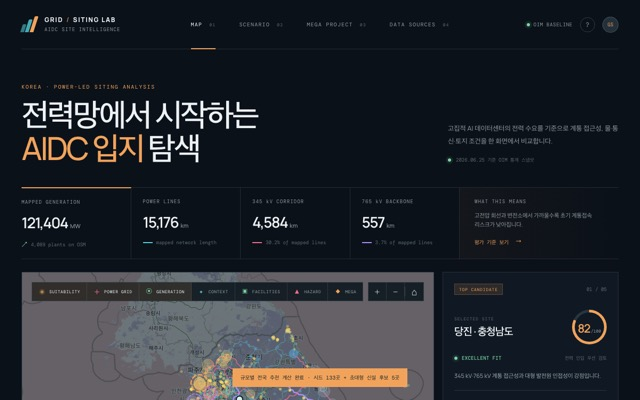
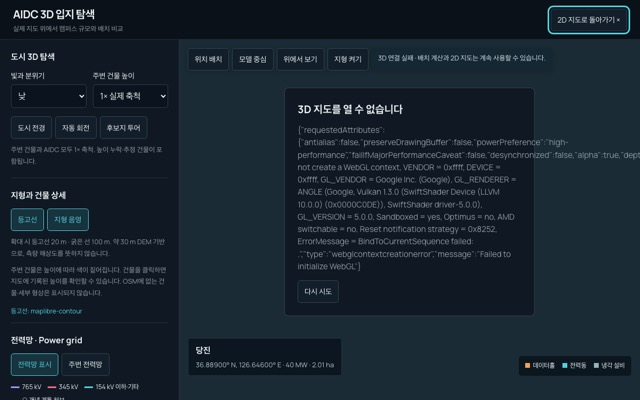
chore: 사례 데이터 갱신 (2026-09-09 야간) — 국가AI전략위 1년 타임라인 등재, AIDC 입지 시뮬레이터 3D 뷰 보강, 평가 378 추가 (총 377건)
Claude-Session: https://claude.ai/code/session_01UzE1ZB24modLJDCrQLPeF8

diff --git a/site/case/3615205d53567c32.html b/site/case/3615205d53567c32.html
@@ -1,0 +1,70 @@
+<!DOCTYPE html>
+<html lang="ko">
+<head>
+  <meta charset="utf-8">
+  <meta name="viewport" content="width=device-width, initial-scale=1">
+  <title>국가AI전략위원회 1년 타임라인 — 분과별 정책 기록을 근거와 함께 따라가는 아카이브 — 모두의 공공AX</title>
+  <meta name="description" content="대통령 직속 국가인공지능전략위원회의 첫 1년을 10개 분과별로 재구성한 정책 아카이브가 공개됐다. 53개 사건을 시간순으로 잇고 분과를 고르면 해당 논의와 현장 활동만 따라갈 수 있으며, 각 사건마다 근거 자료를 자동으로 표시해 출처를 확인하게 했다. 인물 설명은 실제">
+  <link rel="canonical" href="https://hollobit.github.io/PAX/case/3615205d53567c32.html">
+  <meta property="og:type" content="article">
+  <meta property="og:title" content="국가AI전략위원회 1년 타임라인 — 분과별 정책 기록을 근거와 함께 따라가는 아카이브">
+  <meta property="og:description" content="대통령 직속 국가인공지능전략위원회의 첫 1년을 10개 분과별로 재구성한 정책 아카이브가 공개됐다. 53개 사건을 시간순으로 잇고 분과를 고르면 해당 논의와 현장 활동만 따라갈 수 있으며, 각 사건마다 근거 자료를 자동으로 표시해 출처를 확인하게 했다. 인물 설명은 실제">
+  <meta property="og:url" content="https://hollobit.github.io/PAX/case/3615205d53567c32.html">
+  <meta property="og:site_name" content="모두의 공공AX 사례 아카이브">
+  <link rel="stylesheet" href="../style.css">
+</head>
+<body>
+  <header class="site-header">
+    <p class="eyebrow">PUBLIC SECTOR AX CASE · 사례 3615205d53567c32</p>
+    <h1>국가AI전략위원회 1년 타임라인 — 분과별 정책 기록을 근거와 함께 따라가는 아카이브</h1>
+<nav class="site-nav" aria-label="주요 메뉴">
+      <a href="../">사례 아카이브</a>
+      <a href="../dashboard.html">AX 평가</a>
+      <a href="../champions.html">챔피언</a>
+      <a href="../ax-maturity-infographic.html">AX 성숙도 개념</a>
+      <a href="../observatory.html">관측소</a>
+      <a href="../gap-map.html">격차 지도</a>
+      <a href="../mcp-review.html">MCP 검증</a>
+      <a href="../playbook.html">전이 플레이북</a>
+      <a href="../guidelines.html">안내서·가이드라인</a>
+      <a href="../changelog.html">변경 기록</a>
+    </nav>
+    <nav class="site-nav site-nav--external" aria-label="관련 사이트">
+      <a href="https://hollobit.github.io/GAPI2/ecosystem.html" target="_blank" rel="noopener">MCP·AI 도구 ↗</a>
+      <a href="https://ax360.kr/national-ax-project/card" target="_blank" rel="noopener">AX 사업 찾기 ↗</a>
+      <a href="https://ax360.kr/national-ai-resource/model" target="_blank" rel="noopener">AX 자원 찾기 ↗</a>
+      <a href="https://ax360.kr/private-ai-company/heatmap" target="_blank" rel="noopener">AI 기업 찾기 ↗</a>
+      <a href="https://axboard.aigov.go.kr/" target="_blank" rel="noopener">AI 정부실험실 ↗</a>
+    </nav>
+  </header>
+  <main class="case-page">
+    <section class="obs-section">
+      <p class="case-page__meta">공공기관 연구자(개인 개발) · 공직 개인 · 기획·정책 · 2026-09-09 게시</p>
+      <p class="case-page__summary">대통령 직속 국가인공지능전략위원회의 첫 1년을 10개 분과별로 재구성한 정책 아카이브가 공개됐다. 53개 사건을 시간순으로 잇고 분과를 고르면 해당 논의와 현장 활동만 따라갈 수 있으며, 각 사건마다 근거 자료를 자동으로 표시해 출처를 확인하게 했다. 인물 설명은 실제 발언이 아니라 활동 요약임을 명시해 재구성물의 한계를 드러낸 점이 특징이다.</p>
+      <p class="case-page__links"><a href="https://deep-diver.github.io/korea-ai-in-motion/" target="_blank" rel="noopener">공유 링크</a> · <a href="../?case=3615205d53567c32">아카이브에서 보기</a></p>
+    </section>
+    <section class="obs-section">
+      <h2 class="obs-heading">4축 평가</h2>
+      <div class="table-wrap"><table class="obs-table"><tr><th scope="row">AX 단계</th><td>AI-Ready</td></tr><tr><th scope="row">업무 범위</th><td>S1 Single tool</td></tr><tr><th scope="row">업무 완결성</th><td>C1 결과 제공</td></tr><tr><th scope="row">권한(P축)</th><td>P1 산출물 생성(잠정)</td></tr><tr><th scope="row">위험도</th><td>R0 최소</td></tr><tr><th scope="row">인간 통제</th><td>해당 없음</td></tr><tr><th scope="row">증거 등급</th><td>E2 실물 확인</td></tr><tr><th scope="row">신뢰도</th><td>보통</td></tr></table></div>
+      <p class="obs-note">배포된 웹 아카이브를 직접 열어 10개 분과 필터·53개 사건 타임라인·근거 자료 연결·재생 컨트롤을 확인했다(E2). 정책 기록을 읽기 좋게 재구성한 단일 산출물이라 S1·C1로 둔다. 인물 설명을 &#x27;실제 대사 아님&#x27;으로 명시해 재구성물의 한계를 표기한 점은 근거 신뢰도 측면에서 긍정 요소다.</p>
+    </section>
+    <section class="obs-section">
+      <h2 class="obs-heading">실무 도입 카드</h2>
+      <div class="obs-cards">
+        <div class="obs-card"><p class="obs-card__label">필요한 것</p><p class="obs-card__note">실행환경: 브라우저만 · 망 요건: 인터넷 필수 · 라이선스: 명시 없음</p></div>
+        <div class="obs-card"><p class="obs-card__label">첫 3단계</p><p class="obs-card__note">① 링크 접속 → ② 내 업무 데이터로 시험 → ③ 동료와 결과 검증</p></div>
+        <div class="obs-card"><p class="obs-card__label">주의사항</p><p class="obs-card__note">실사용 피드백이 미확인입니다 — 도입 전 소규모 검증을 권합니다 · 성과 수치는 출처가 확인된 것만 신뢰하세요</p></div>
+      </div>
+      <p class="obs-note">전이 절차(보안검토→품의→배포)는 <a href="../playbook.html">전이 플레이북</a>을 참고하세요.</p>
+    </section>
+    <section class="obs-section">
+      <h2 class="obs-heading">비슷한 업무의 사례</h2>
+      <ul class="case-page__related"><li><a href="5451653f4cddb6f2.html">제도100 — 국가 제도 505개 업무구조도 웹서비스</a></li><li><a href="d487843b67c6063e.html">교육행정 업무 워크플로 맵 제작기 공유</a></li><li><a href="856b4951cb5274d1.html">K-지방직 정책서랍 — 전국 지자체 예산서·주요업무계획 검색 서비스</a></li></ul>
+    </section>
+    <footer class="obs-note">
+      <p>출처: 모두의 공공AX 사례 아카이브 · 자기선택 표본 · 근거 없는 항목은 '미확인'으로 표기 ·
+      인용 시 이 페이지 URL을 사용하세요.</p>
+    </footer>
+  </main>
+</body>
+</html>

diff --git a/site/case/aef95509b7611c96.html b/site/case/aef95509b7611c96.html
@@ -4,11 +4,11 @@
   <meta charset="utf-8">
   <meta name="viewport" content="width=device-width, initial-scale=1">
   <title>AIDC 입지 시뮬레이터 — 전력망·용수·SOC 종합 검토 — 모두의 공공AX</title>
-  <meta name="description" content="AI 데이터센터(AIDC) 입지를 전력망, 용수, SOC 시설, 배후도시 등 다중 조건으로 검토하는 입지 시뮬레이터가 공개됐다. 2035년까지 18.4GW 규모로 확장이 예고된 AIDC 유치를 검토하는 지자체가 고려 요소를 한 화면에서 시뮬레이션할 수 있게 한다.">
+  <meta name="description" content="AI 데이터센터(AIDC) 입지를 전력망, 용수, SOC 시설, 배후도시 등 다중 조건으로 검토하는 입지 시뮬레이터다. 2035년까지 18.4GW 규모로 확장이 예고된 AIDC 유치를 검토하는 지자체가 고려 요소를 한 화면에서 시뮬레이션할 수 있게 한다. 2026년 9">
   <link rel="canonical" href="https://hollobit.github.io/PAX/case/aef95509b7611c96.html">
   <meta property="og:type" content="article">
   <meta property="og:title" content="AIDC 입지 시뮬레이터 — 전력망·용수·SOC 종합 검토">
-  <meta property="og:description" content="AI 데이터센터(AIDC) 입지를 전력망, 용수, SOC 시설, 배후도시 등 다중 조건으로 검토하는 입지 시뮬레이터가 공개됐다. 2035년까지 18.4GW 규모로 확장이 예고된 AIDC 유치를 검토하는 지자체가 고려 요소를 한 화면에서 시뮬레이션할 수 있게 한다.">
+  <meta property="og:description" content="AI 데이터센터(AIDC) 입지를 전력망, 용수, SOC 시설, 배후도시 등 다중 조건으로 검토하는 입지 시뮬레이터다. 2035년까지 18.4GW 규모로 확장이 예고된 AIDC 유치를 검토하는 지자체가 고려 요소를 한 화면에서 시뮬레이션할 수 있게 한다. 2026년 9">
   <meta property="og:url" content="https://hollobit.github.io/PAX/case/aef95509b7611c96.html">
   <meta property="og:site_name" content="모두의 공공AX 사례 아카이브">
   <link rel="stylesheet" href="../style.css">
@@ -40,8 +40,8 @@
   <main class="case-page">
     <section class="obs-section">
       <p class="case-page__meta">공공기관 연구자(개인 개발) · 공직 개인 · 시설·안전 · 2026-08-16 게시</p>
-      <p class="case-page__summary">AI 데이터센터(AIDC) 입지를 전력망, 용수, SOC 시설, 배후도시 등 다중 조건으로 검토하는 입지 시뮬레이터가 공개됐다. 2035년까지 18.4GW 규모로 확장이 예고된 AIDC 유치를 검토하는 지자체가 고려 요소를 한 화면에서 시뮬레이션할 수 있게 한다.</p>
-      <p class="case-page__links"><a href="https://hollobit.github.io/grid-siting-lab/" target="_blank" rel="noopener">공유 링크</a> · <a href="../?case=aef95509b7611c96">아카이브에서 보기</a></p>
+      <p class="case-page__summary">AI 데이터센터(AIDC) 입지를 전력망, 용수, SOC 시설, 배후도시 등 다중 조건으로 검토하는 입지 시뮬레이터다. 2035년까지 18.4GW 규모로 확장이 예고된 AIDC 유치를 검토하는 지자체가 고려 요소를 한 화면에서 시뮬레이션할 수 있게 한다. 2026년 9월 3D 입지 뷰가 추가돼 AIDC 규모와 GPU 종류·건물 층수에 맞춰 건물과 용지 크기를 자동 생성하고 지도 위에 배치해 각도를 바꿔가며 확인할 수 있다.</p>
+      <p class="case-page__links"><a href="https://hollobit.github.io/grid-siting-lab/#siting-3d" target="_blank" rel="noopener">사례 대상 바로가기</a> · <a href="https://hollobit.github.io/grid-siting-lab/" target="_blank" rel="noopener">공유 링크</a> · <a href="../?case=aef95509b7611c96">아카이브에서 보기</a></p>
     </section>
     <section class="obs-section">
       <h2 class="obs-heading">4축 평가</h2>
